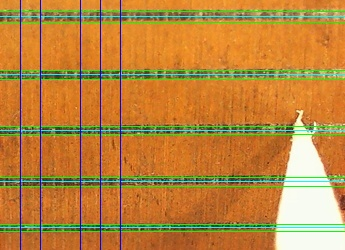
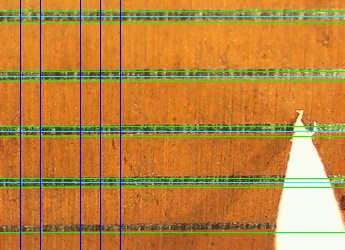
temp

diff --git a/code/algorithm.py b/code/algorithm.py
@@ -6,6 +6,7 @@ import time
 # 将缺少上边缘或者下边缘的线剔除掉，
 # 选择上下线策略优化，判断前后线有无
 # 去除对比度增强，执行效率提升，0.01s一帧 原0.28s一帧
+# 改写取样函数
 
 src = cv2.imread("test2.jpg")
 cv2.imshow("src1", src)
@@ -22,15 +23,6 @@ srcLine = src.copy()
 a = 1.3
 b = 0
 
-for i in range(rows):
-    for j in range(cols):
-        color = img[i, j] * a + b
-        if color > 255:
-            dst[i, j] = 255
-        else:
-            dst[i, j] = color
-
-cv2.imshow('dst', dst)
 
 dst = img.copy()
 
@@ -43,23 +35,30 @@ listPix40 = []
 listPix50 = []
 listPix60 = []
 
-for i in range(0, rows):
-    color = dst[i, 20]
-    listPix20.append(color)
-    color = dst[i, 40]
-    listPix30.append(color)
-    color = dst[i, 80]
-    listPix40.append(color)
-    color = dst[i, 100]
-    listPix50.append(color)
-    color = dst[i, 120]
-    listPix60.append(color)
+
 
 # print(listPix)
-for i in range(len(listPix20)):
-    listPixavr.append(int((int(listPix20[i])+int(listPix30[i])+int(listPix40[i])+int(listPix50[i])+int(listPix60[i]))/5))
+# for i in range(len(listPix20)):
+#     listPixavr.append(int((int(listPix20[i])+int(listPix30[i])+int(listPix40[i])+int(listPix50[i])+int(listPix60[i]))/5))
 
+# 重构建取样函数
 
+def getAvrPix():
+    sampelLine = []
+    x = 50
+    color = 0
+    for i in range(12):
+        x = x + 15
+        sampelLine.append(x)
+        # print(sampelLine)
+
+    for i in range(0, rows):
+        for j in range(len(sampelLine)):
+            color = color + int(dst[i, j])
+        color = int(color/12)
+        listPixavr.append(color)
+
+getAvrPix()
 
 lastPix = []
 lastPixT = []

diff --git a/code/modeltest.py b/code/modeltest.py
@@ -1,0 +1,10 @@
+def getAvrPix():
+    sampelLine = []
+    x = 0
+    for i in range(12):
+        x = x + 15
+        sampelLine.append(x)
+        print(sampelLine)
+
+
+getAvrPix()
